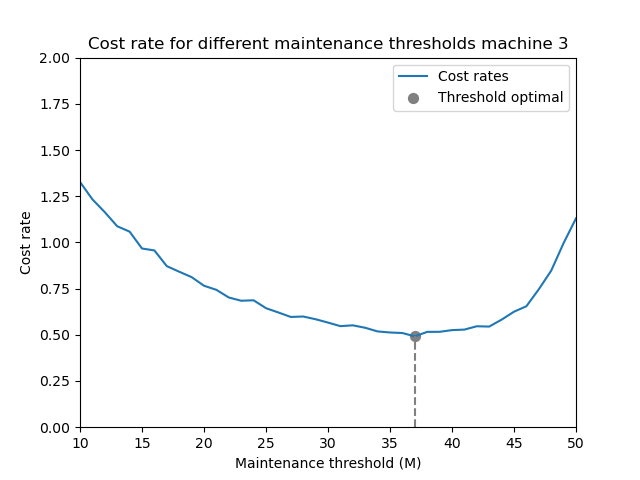
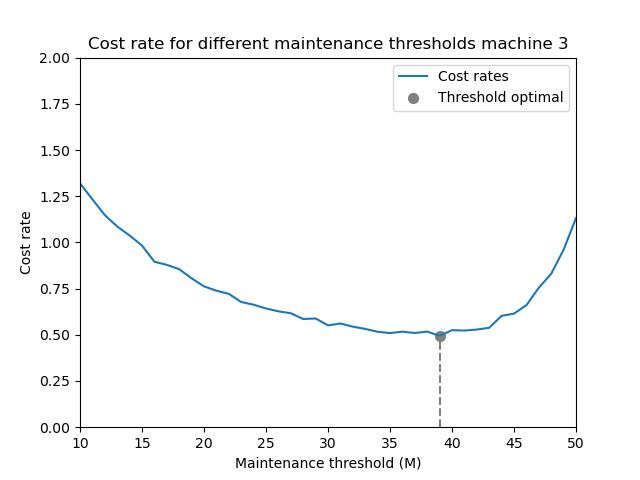
run function done, TODO different datasets

diff --git a/s4917340-Tool.py b/s4917340-Tool.py
@@ -29,6 +29,7 @@ def data_preparation(machine_data : pd.DataFrame):
     # source: https://sparkbyexamples.com/pandas/pandas-groupby-sort-within-groups/
     machine_data = machine_data.groupby('Duration', group_keys=True).apply(lambda x: x.sort_values(by=['Event'], ascending=False))
     machine_data = machine_data.reset_index(drop=True)
+    print(machine_data)
 
     return machine_data
 
@@ -238,7 +239,11 @@ def CBM_analyse_costs(sample_data : pd.DataFrame, PM_cost, CM_cost):
 def CBM_create_cost_data(prepared_condition_data : pd.DataFrame, PM_cost, CM_cost, failure_level, machine_name):
     CBM_cost_data = pd.DataFrame()
     thresholds = np.arange(0, 51)
+    percentiles = np.percentile(thresholds, [0, 20, 40, 60, 80, 100]).tolist()
     for threshold in thresholds:
+        if threshold in percentiles:
+            percentage = "{:.0%}".format(threshold / thresholds.max())
+            print(f'CBM Analysis at {percentage}', end='\r', flush=True)
         sample_data = CBM_create_simulations(prepared_condition_data, failure_level, threshold)
         cost_rate = CBM_analyse_costs(sample_data, PM_cost, CM_cost)
         CBM_cost_data.at[threshold, 'cost_rate'] = cost_rate
@@ -285,13 +290,12 @@ def run_analysis(machine_name, PM_cost, CM_cost, analyse_CBM = 'no'):
     visualization(KM_data, weibull_data, machine_name)
 
     # # Age-based maintenance optimization
-    PM_cost = 5
-    CM_cost = 20
     best_age, best_cost_rate = create_cost_data(prepared_data, lamb_val, kap_val, PM_cost, CM_cost, machine_name)
     print('The optimal maintenance age is', best_age)
     print('The best cost rate is', best_cost_rate)
 
     if analyse_CBM == 'yes':
+        print('\nStart with the Condition-based maintenance analysis')
         # Condition-based maintenance
         condition_data = pd.read_csv(os.path.join(data_path, f'{student_nr}-Machine-{machine_name}-condition-data.csv'))
         prepared_condition_data = CBM_data_preperation(condition_data)
@@ -300,40 +304,45 @@ def run_analysis(machine_name, PM_cost, CM_cost, analyse_CBM = 'no'):
         # Failure level is the highest condition in the dataset 
         failure_level = prepared_condition_data['Condition'].max()
 
-        CBM_cost_rate, CBM_threshold = CBM_create_cost_data(prepared_condition_data, PM_cost, CM_cost, failure_level,   machine_name) 
+        CBM_cost_rate, CBM_threshold = CBM_create_cost_data(prepared_condition_data, PM_cost, CM_cost, failure_level, machine_name) 
         print('The optimal cost rate under CBM is ', CBM_cost_rate) 
         print('The optimal CBM threshold is ', CBM_threshold)
     
     return
 
 def run():
-    print('Hello, welcome to the Assignment 2 tool used to guide maintenance decision making for 3 different machines')
-    print('Please answer the following questions to get started:')
+    if not os.path.exists(plot_path):
+        os.mkdir(plot_path)
+    if not os.path.exists(data_path):
+        print(f'No data folder has been found at {data_path}, \nI need data to work with first...')
+        return
     while True:
+        print('Hello, welcome to the Assignment 2 tool used to guide maintenance decision-making for 3 different machines')
+        print('Please answer the following questions to get started:')
         try:
             analyse_CBM = 'no'
             machine_name = int(input('What machine should be analysed (1,2 or 3?): ').lower())
             if machine_name not in (1,2,3):
-                print('You can only choose between machines 1, 2, or 3')
+                print('You can only choose between machines 1, 2, or 3\n')
                 continue
             PM_cost = int(input('What is the PM cost?: '))
             CM_cost = int(input('What is the CM cost?: '))
             if machine_name == 3:
                 analyse_CBM = input('Do you want to include a condition-based maintenance analysis for machine 3? (yes/no) ').lower()
             print(f'Oke, let start with the analysis using these input values')
-            time.sleep(2)
+            time.sleep(1)
             run_analysis(machine_name, PM_cost, CM_cost, analyse_CBM)
-            print('Analysis done, goodbye!')
-            break
+            print('Analysis done! See the plot folder for graphs. \n')
         except ValueError:
-            print('Error within the input field, try again')
+            print('Error within the input field, try again\n')
             continue
         except Exception as e:
             print('Crash error something bad happend during the analysis, I am closing now with error:', e)
             break
 
 # run the program
-run()
+# run()
+run_analysis(3, 50, 80)
 
 
 
